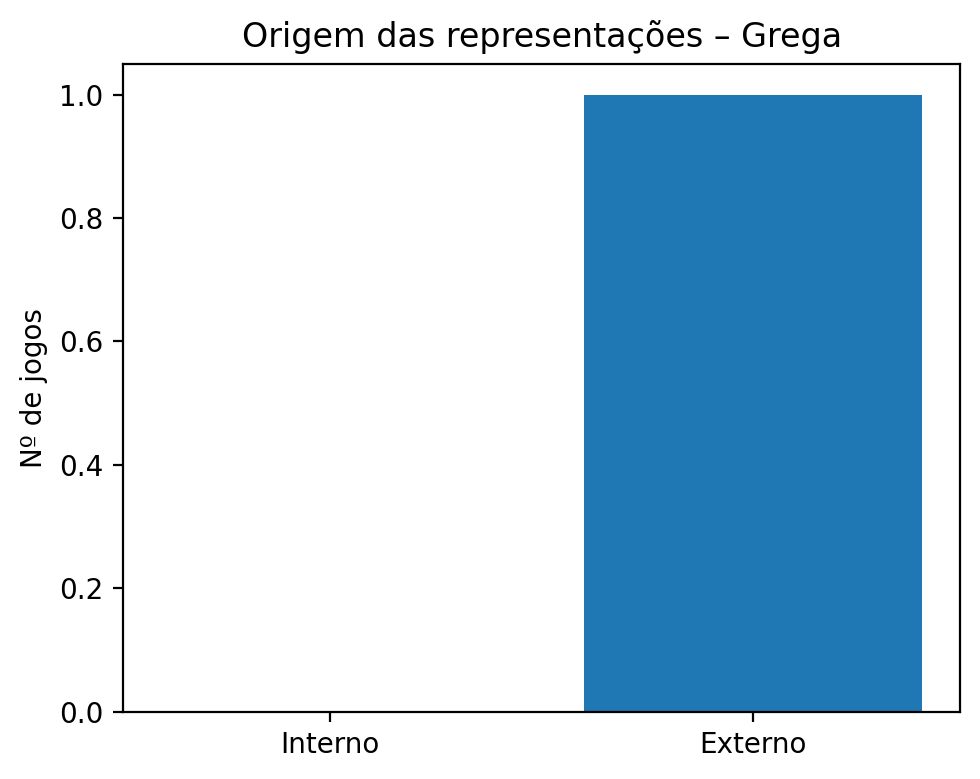
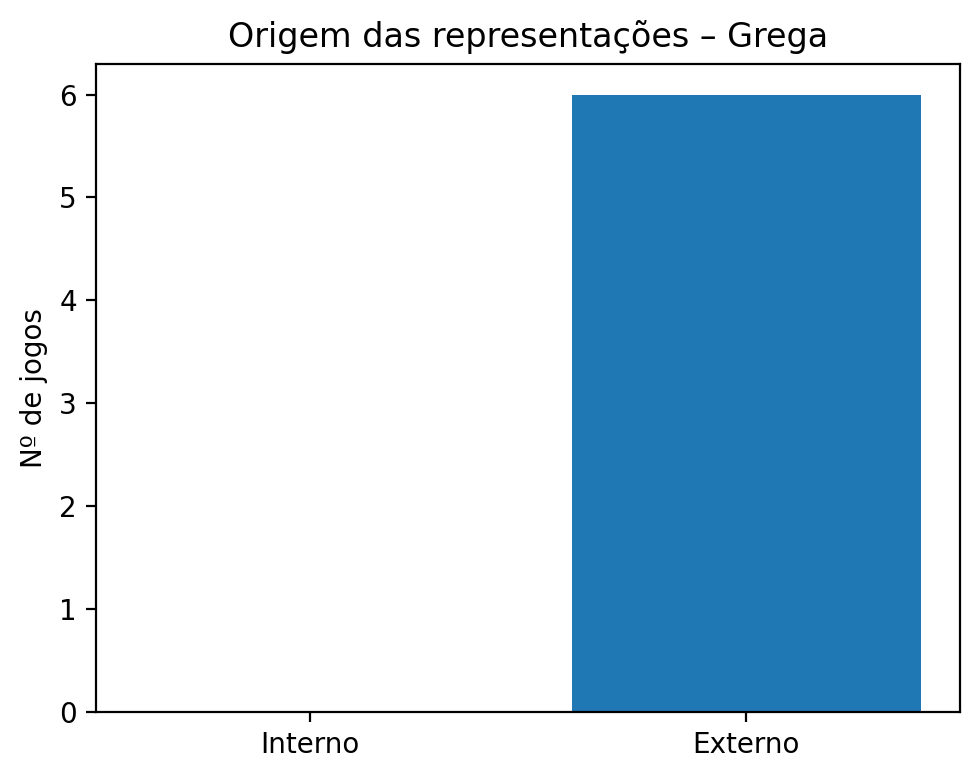
Adding 1981 games

diff --git a/generate_charts.py b/generate_charts.py
@@ -40,7 +40,7 @@ def chart_global_myth_distribution():
         FROM mythologies m
         LEFT JOIN game_mythologies gm ON gm.mythology_id = m.id
         GROUP BY m.id, m.name
-        ORDER BY num_games DESC, m.name;  -- ordem por frequência
+        ORDER BY num_games DESC, m.name;
     """)
     rows = cur.fetchall()
     conn.close()
@@ -125,10 +125,9 @@ def chart_global_releases_per_month():
     print("→ Gerado:", out_path)
 
 
-def chart_heatmap_myth_genre():
+def chart_heatmap_myth_genre_primary():
     """
-    Heatmap mitologia × género principal.
-    (Aqui continua só o género principal; por mitologia abaixo usamos todos os géneros.)
+    Heatmap mitologia × género PRINCIPAL (gg.is_primary = 1).
     """
     conn = get_conn()
 
@@ -148,7 +147,7 @@ def chart_heatmap_myth_genre():
     conn.close()
 
     if df.empty:
-        print("Sem dados para heatmap mitologia × género.")
+        print("Sem dados para heatmap mitologia × género principal.")
         return
 
     pivot = df.pivot(index="mythology", columns="genre", values="num_games").fillna(0)
@@ -164,12 +163,62 @@ def chart_heatmap_myth_genre():
 
     ax.set_xlabel("Género principal")
     ax.set_ylabel("Mitologia")
-    ax.set_title("Heatmap: Mitologia × Género (nº de jogos)")
+    ax.set_title("Heatmap: Mitologia × Género principal")
 
     fig.colorbar(cax, ax=ax, label="Nº de jogos")
     plt.tight_layout()
 
-    out_path = os.path.join(OUTPUT_GLOBAL, "heatmap_myth_genre.png")
+    out_path = os.path.join(OUTPUT_GLOBAL, "heatmap_myth_genre_primary.png")
+    plt.savefig(out_path, dpi=300, bbox_inches="tight")
+    plt.close(fig)
+    print("→ Gerado:", out_path)
+
+
+def chart_heatmap_myth_genre_secondary():
+    """
+    Heatmap mitologia × género SECUNDÁRIO
+    (tudo o que NÃO é principal: is_primary = 0 ou NULL).
+    """
+    conn = get_conn()
+
+    df = pd.read_sql_query("""
+        SELECT 
+            m.name AS mythology,
+            g2.name AS genre,
+            COUNT(DISTINCT gm.game_id) AS num_games
+        FROM game_mythologies gm
+        JOIN mythologies   m  ON gm.mythology_id = m.id
+        JOIN game_genres   gg ON gm.game_id      = gg.game_id
+        JOIN genres        g2 ON gg.genre_id     = g2.id
+        WHERE gg.is_primary IS NULL OR gg.is_primary = 0
+        GROUP BY m.id, g2.id;
+    """, conn)
+
+    conn.close()
+
+    if df.empty:
+        print("Sem dados para heatmap mitologia × género secundário.")
+        return
+
+    pivot = df.pivot(index="mythology", columns="genre", values="num_games").fillna(0)
+
+    fig, ax = plt.subplots(figsize=(12, 12))
+    cax = ax.imshow(pivot.values, aspect='auto')
+
+    ax.set_xticks(range(len(pivot.columns)))
+    ax.set_xticklabels(pivot.columns, rotation=45, ha='right', fontsize=6)
+
+    ax.set_yticks(range(len(pivot.index)))
+    ax.set_yticklabels(pivot.index, fontsize=5)
+
+    ax.set_xlabel("Género secundário")
+    ax.set_ylabel("Mitologia")
+    ax.set_title("Heatmap: Mitologia × Género secundário")
+
+    fig.colorbar(cax, ax=ax, label="Nº de jogos")
+    plt.tight_layout()
+
+    out_path = os.path.join(OUTPUT_GLOBAL, "heatmap_myth_genre_secondary.png")
     plt.savefig(out_path, dpi=300, bbox_inches="tight")
     plt.close(fig)
     print("→ Gerado:", out_path)
@@ -284,7 +333,7 @@ def chart_global_platform_distribution():
             COUNT(DISTINCT gp.game_id) AS num_games
         FROM platforms p
         JOIN game_platforms gp ON gp.platform_id = p.id
-        JOIN game_mythologies gm ON gm.game_id   = gp.game_id  -- garante que tem mitologia
+        JOIN game_mythologies gm ON gm.game_id   = gp.game_id
         GROUP BY p.id, p.name
         ORDER BY num_games DESC;
     """)
@@ -366,10 +415,10 @@ def charts_by_myth_timelines():
     conn.close()
 
 
-def charts_by_myth_genre_distribution():
+def charts_by_myth_genre_distribution_primary():
     """
     Para cada mitologia, gráfico de barras com distribuição de géneros
-    (TODOS os géneros associados ao jogo, não só o principal).
+    PRINCIPAIS (gg.is_primary = 1).
     """
     conn = get_conn()
 
@@ -383,13 +432,14 @@ def charts_by_myth_genre_distribution():
         JOIN mythologies m ON gm.mythology_id = m.id
         JOIN game_genres gg ON gm.game_id     = gg.game_id
         JOIN genres g2      ON gg.genre_id    = g2.id
+        WHERE gg.is_primary = 1
         GROUP BY m.id, g2.id;
     """, conn)
 
     conn.close()
 
     if df.empty:
-        print("Sem dados para distribuição de géneros por mitologia.")
+        print("Sem dados para distribuição de géneros principais por mitologia.")
         return
 
     for myth_id, group in df.groupby("myth_id"):
@@ -399,7 +449,7 @@ def charts_by_myth_genre_distribution():
 
         fig, ax = plt.subplots(figsize=(8, 4))
         ax.bar(genres, counts)
-        ax.set_title(f"Géneros (todos) – {myth_name}")
+        ax.set_title(f"Géneros principais – {myth_name}")
         ax.set_xlabel("Género")
         ax.set_ylabel("Nº de jogos")
 
@@ -407,7 +457,55 @@ def charts_by_myth_genre_distribution():
         plt.tight_layout()
 
         safe_name = "".join(c if c.isalnum() or c in " _-" else "_" for c in myth_name)
-        out_path = os.path.join(OUTPUT_BY_MYTH, f"genres_{myth_id}_{safe_name}.png")
+        out_path = os.path.join(OUTPUT_BY_MYTH, f"genres_primary_{myth_id}_{safe_name}.png")
+        plt.savefig(out_path, dpi=200, bbox_inches="tight")
+        plt.close(fig)
+        print("→ Gerado:", out_path)
+
+
+def charts_by_myth_genre_distribution_secondary():
+    """
+    Para cada mitologia, gráfico de barras com distribuição de géneros
+    SECUNDÁRIOS (gg.is_primary = 0 ou NULL).
+    """
+    conn = get_conn()
+
+    df = pd.read_sql_query("""
+        SELECT 
+            m.id   AS myth_id,
+            m.name AS myth_name,
+            g2.name AS genre,
+            COUNT(DISTINCT gm.game_id) AS num_games
+        FROM game_mythologies gm
+        JOIN mythologies m ON gm.mythology_id = m.id
+        JOIN game_genres gg ON gm.game_id     = gg.game_id
+        JOIN genres g2      ON gg.genre_id    = g2.id
+        WHERE gg.is_primary IS NULL OR gg.is_primary = 0
+        GROUP BY m.id, g2.id;
+    """, conn)
+
+    conn.close()
+
+    if df.empty:
+        print("Sem dados para distribuição de géneros secundários por mitologia.")
+        return
+
+    for myth_id, group in df.groupby("myth_id"):
+        myth_name = group["myth_name"].iloc[0]
+        genres = group["genre"].tolist()
+        counts = group["num_games"].tolist()
+
+        fig, ax = plt.subplots(figsize=(8, 4))
+        ax.bar(genres, counts)
+        ax.set_title(f"Géneros secundários – {myth_name}")
+        ax.set_xlabel("Género")
+        ax.set_ylabel("Nº de jogos")
+
+        plt.xticks(rotation=45, ha='right')
+        plt.tight_layout()
+
+        safe_name = "".join(c if c.isalnum() or c in " _-" else "_" for c in myth_name)
+        out_path = os.path.join(OUTPUT_BY_MYTH, f"genres_secondary_{myth_id}_{safe_name}.png")
         plt.savefig(out_path, dpi=200, bbox_inches="tight")
         plt.close(fig)
         print("→ Gerado:", out_path)
@@ -554,14 +652,16 @@ def main():
     # GERAIS
     chart_global_myth_distribution()
     chart_global_releases_per_month()
-    chart_heatmap_myth_genre()
+    chart_heatmap_myth_genre_primary()
+    chart_heatmap_myth_genre_secondary()
     chart_heatmap_myth_country()
     chart_games_by_myth_count()
     chart_global_platform_distribution()
 
     # POR MITOLOGIA
     charts_by_myth_timelines()
-    charts_by_myth_genre_distribution()
+    charts_by_myth_genre_distribution_primary()
+    charts_by_myth_genre_distribution_secondary()
     charts_by_myth_internal_vs_external()
     charts_by_myth_platform_distribution()
 
